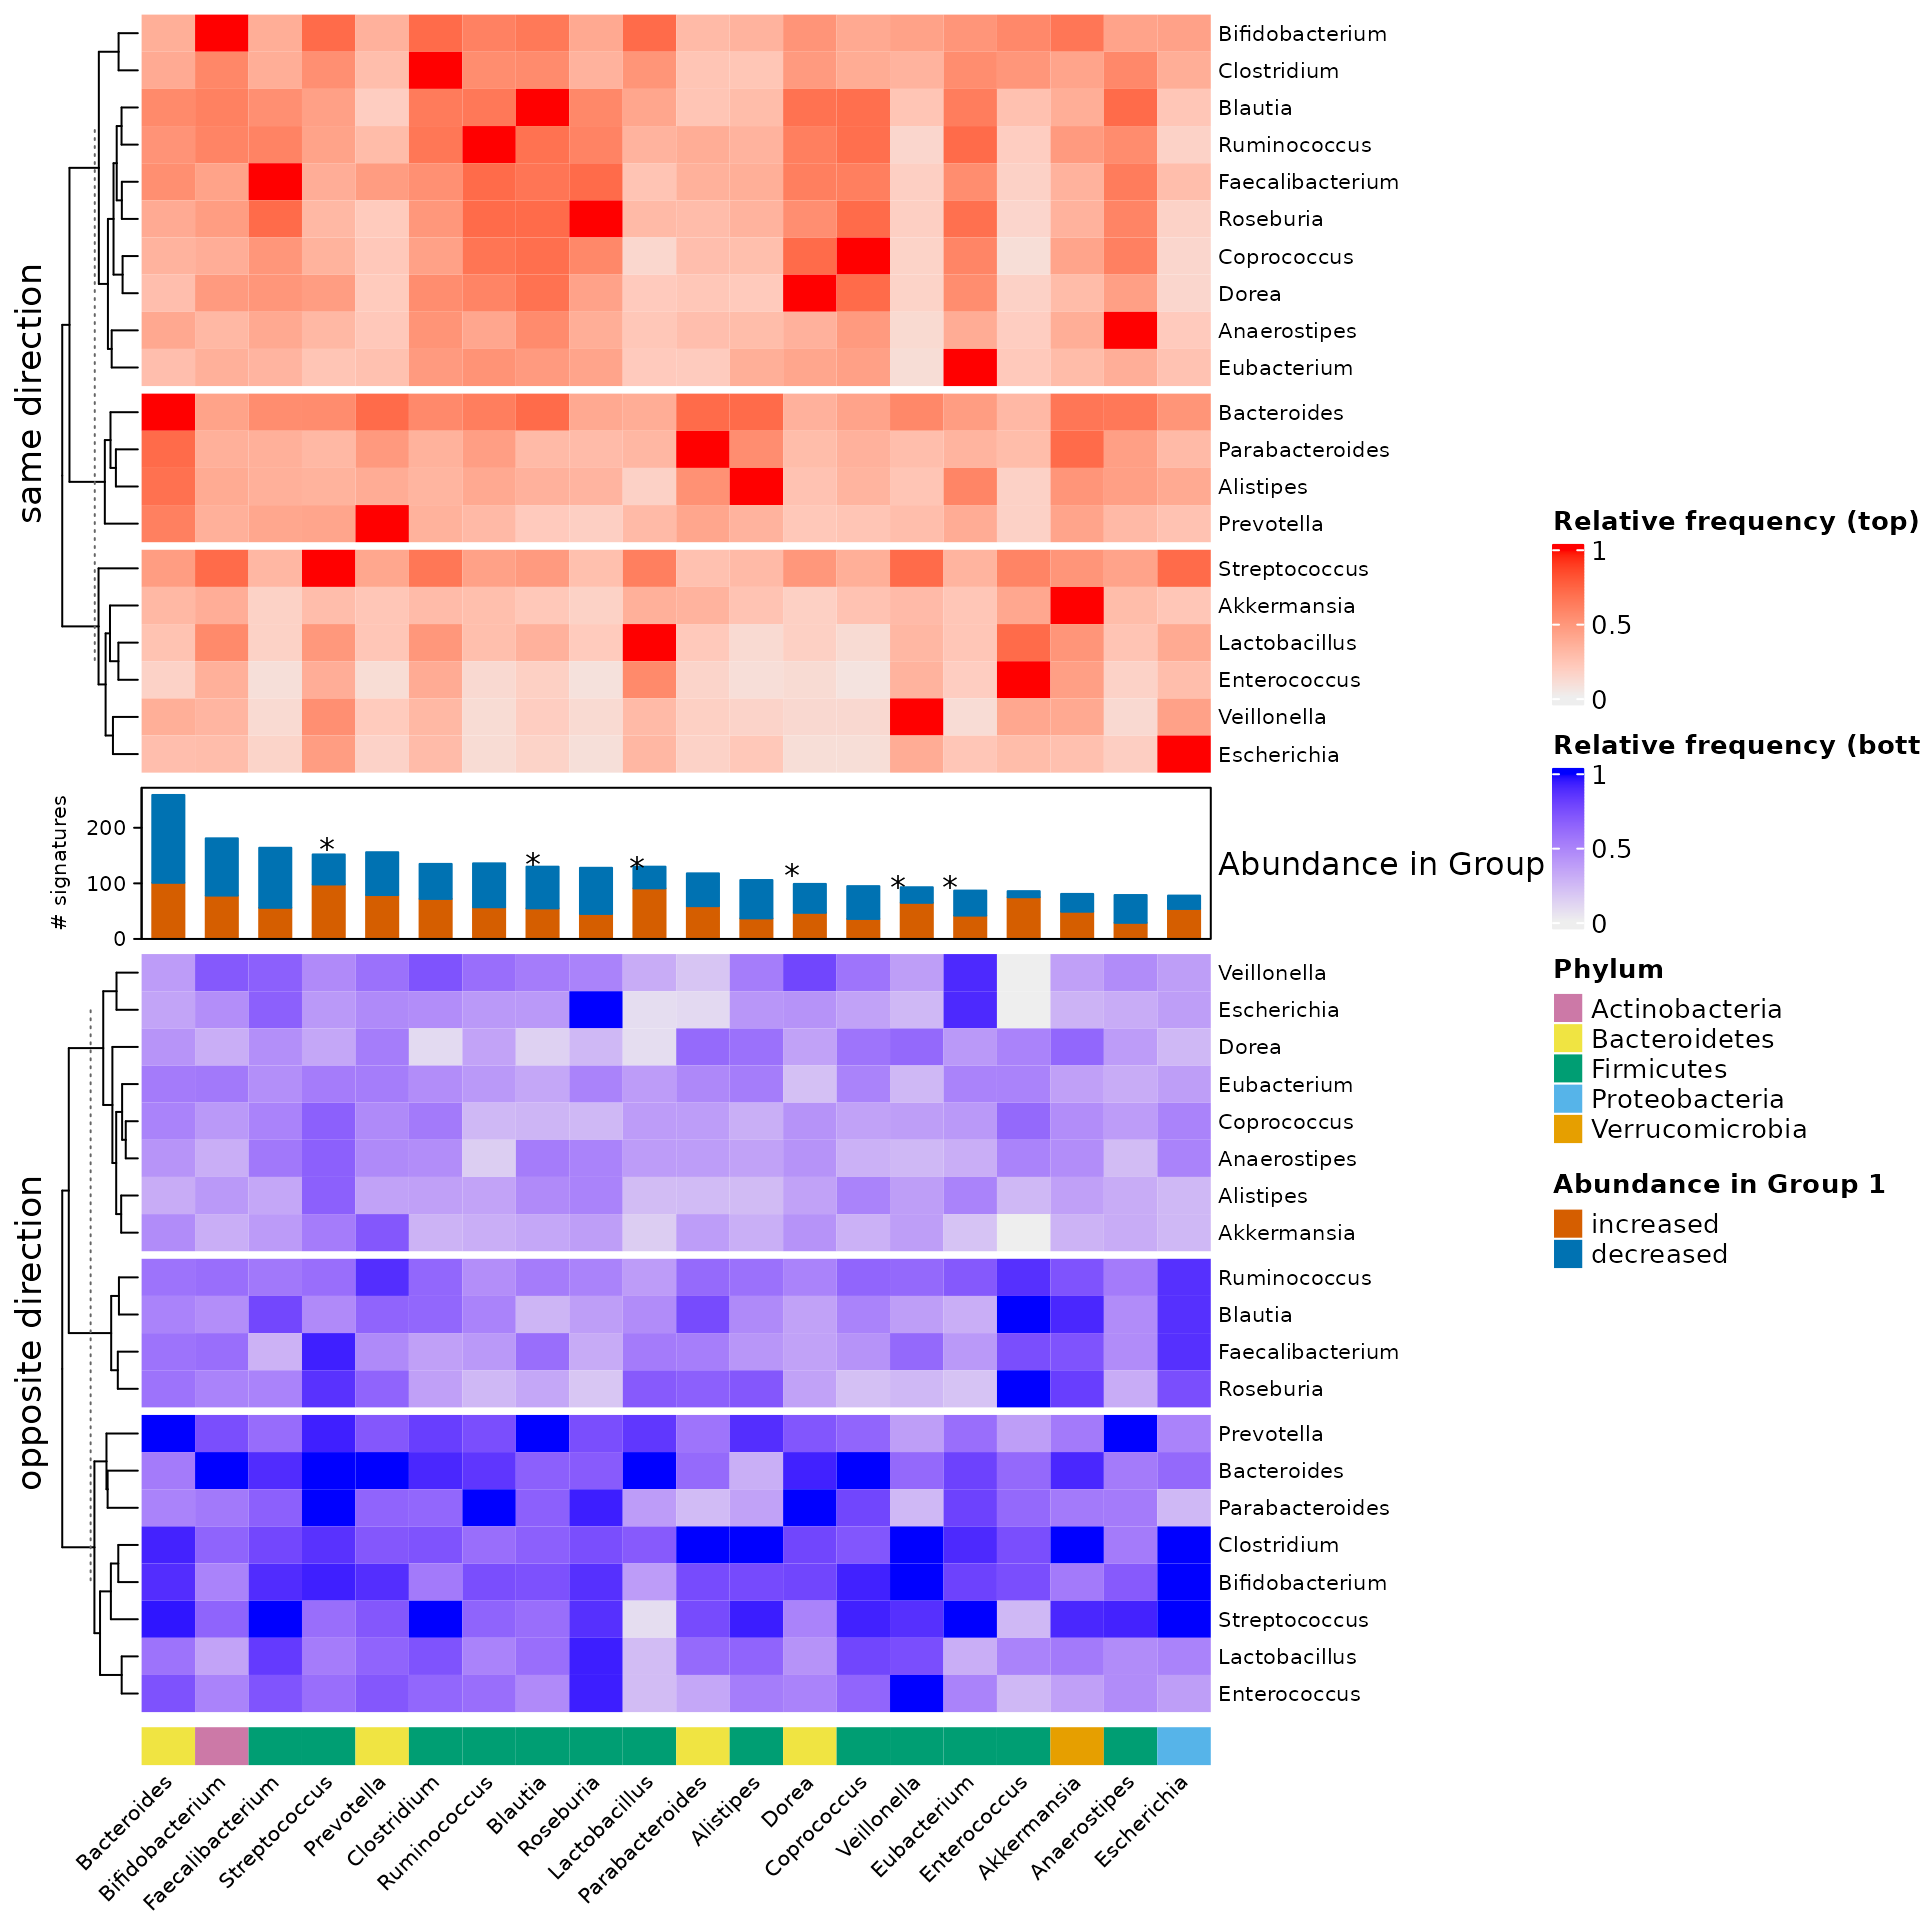
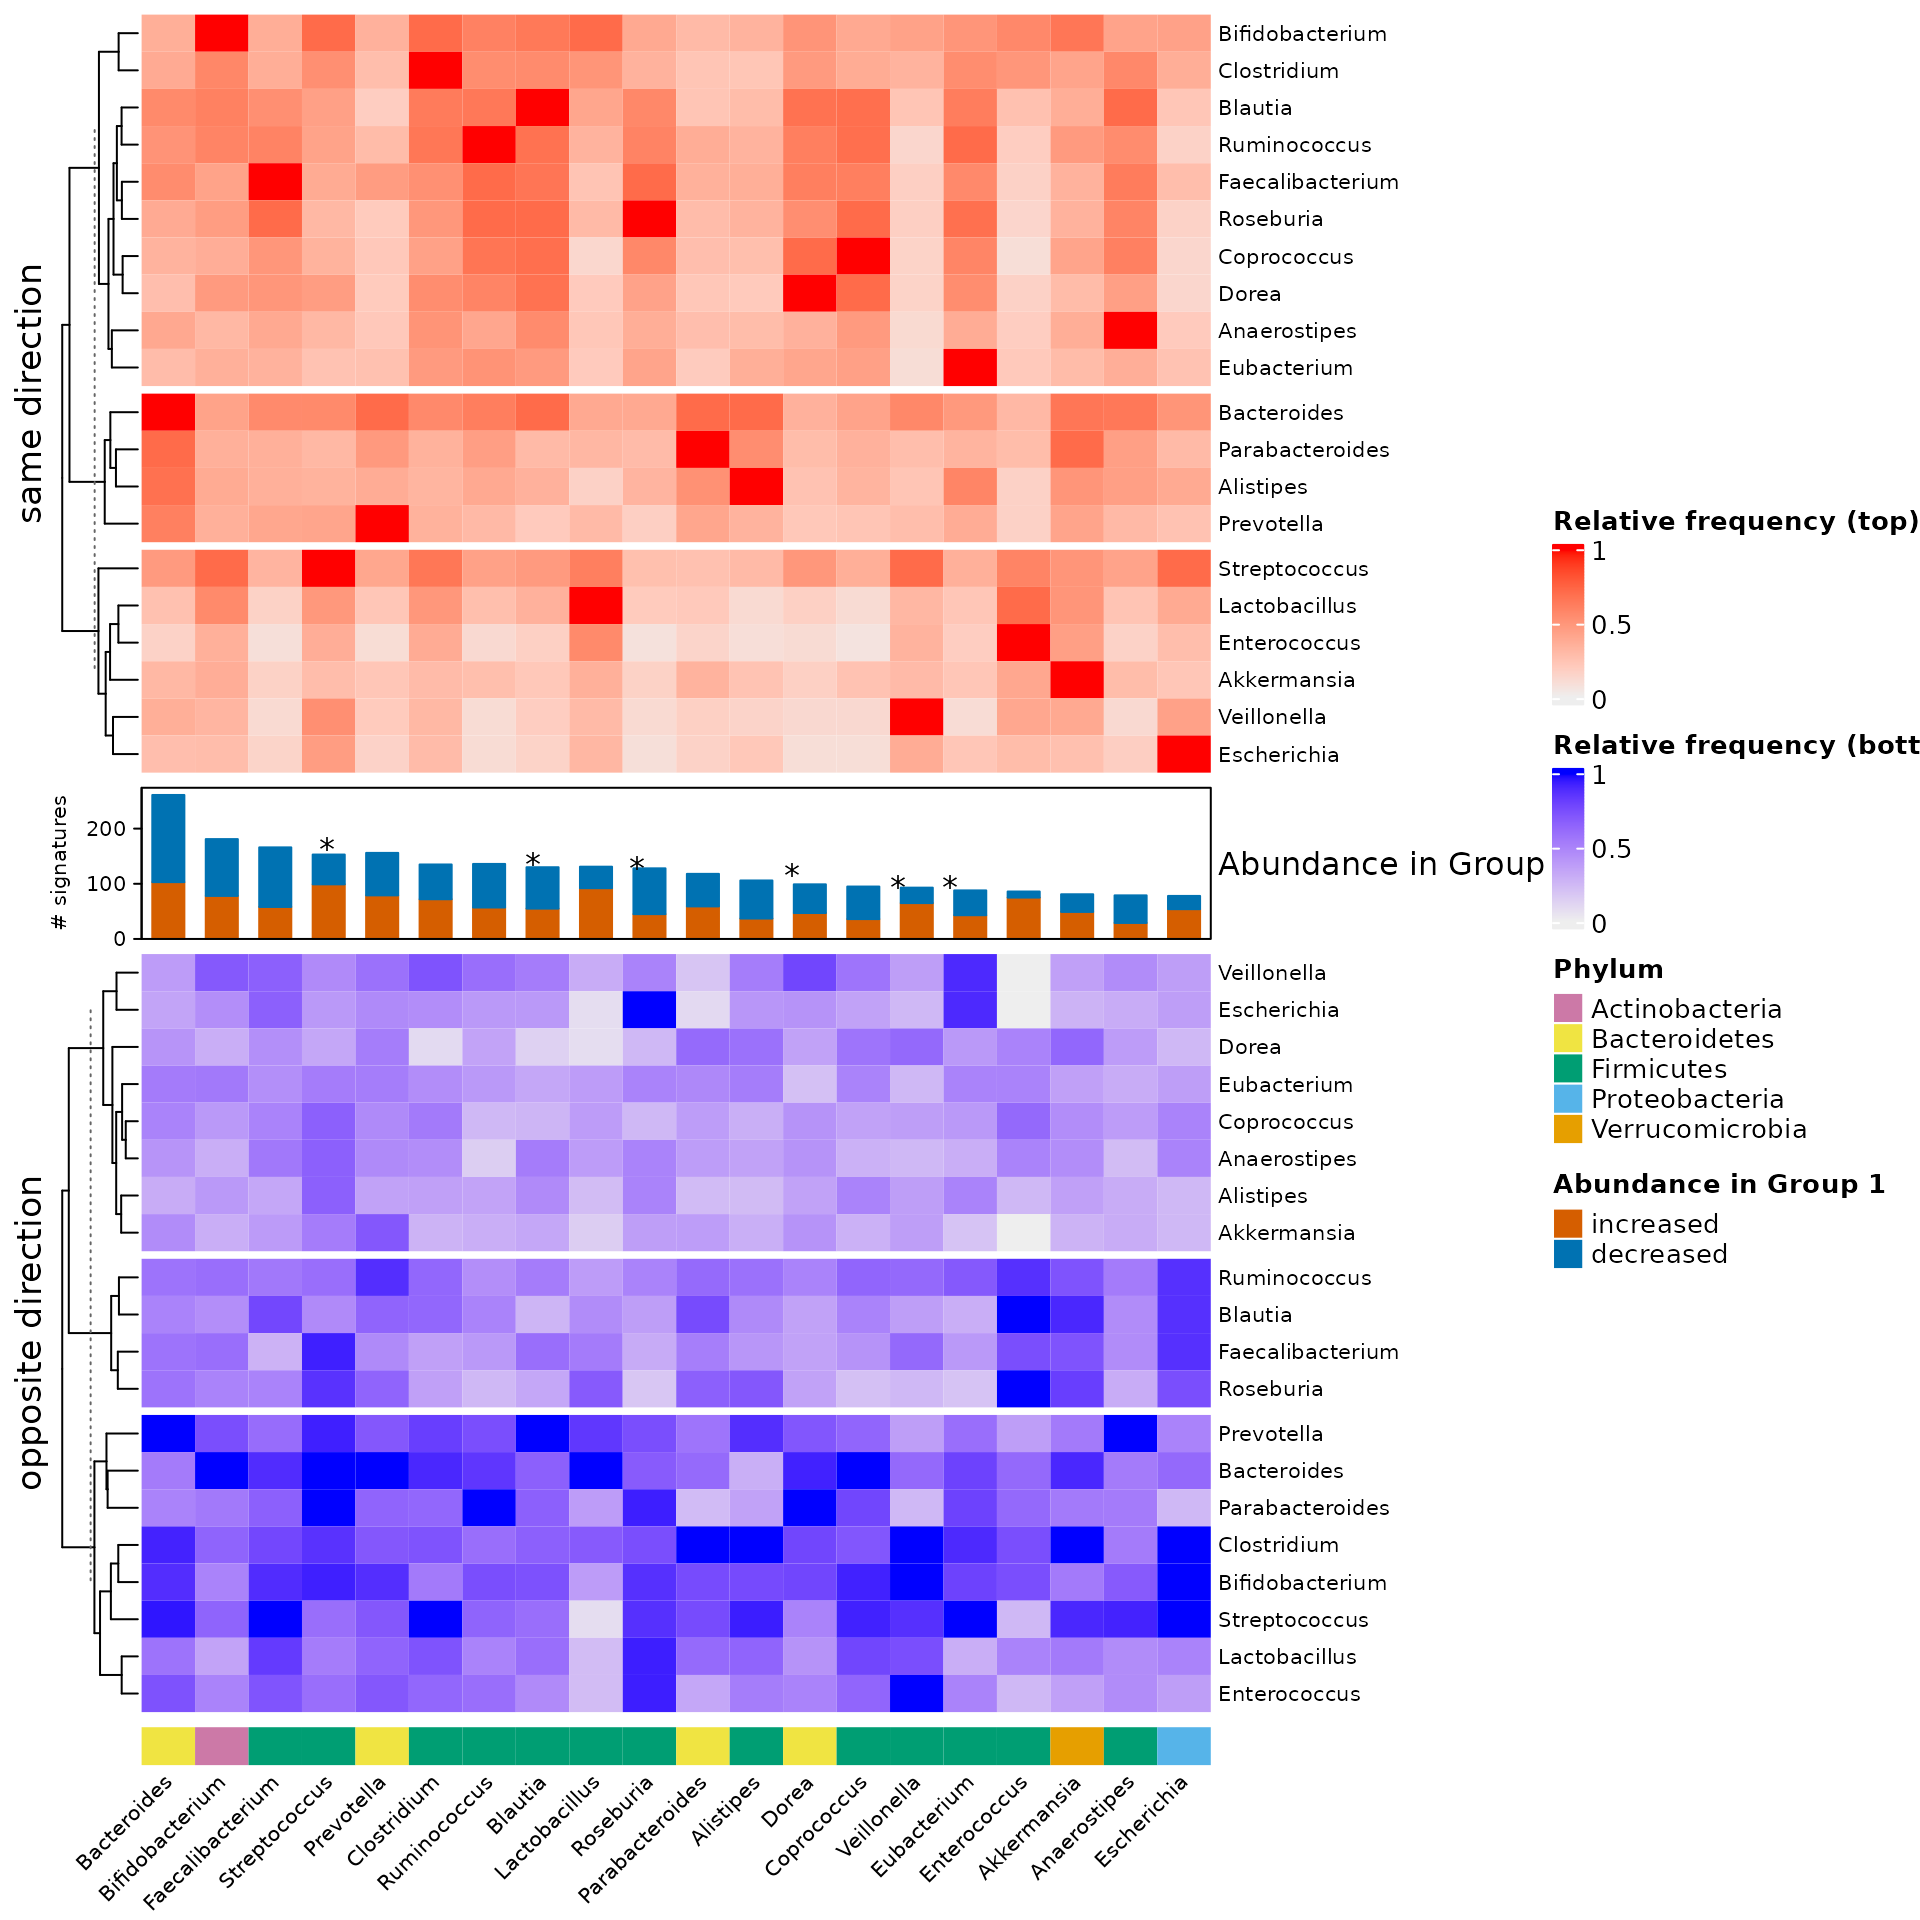
Deploying to gh-pages from @ waldronlab/BugSigDBStats@20c85d77b36f83bcaac91127be3e2c4930af8f28 🚀

diff --git a/articles/BugSigDBStats.html b/articles/BugSigDBStats.html
@@ -65,7 +65,7 @@
     <div class="page-header toc-ignore">
       <h1 data-toc-skip></h1>
             
-            <h4 data-toc-skip class="date">December 18, 2022</h4>
+            <h4 data-toc-skip class="date">December 20, 2022</h4>
       
       <small class="dont-index">Source: <a href="https://github.com/waldronlab/BugSigDBStats/blob/HEAD/vignettes/BugSigDBStats.Rmd" class="external-link"><code>vignettes/BugSigDBStats.Rmd</code></a></small>
       <div class="hidden name"><code>BugSigDBStats.Rmd</code></div>
@@ -458,7 +458,7 @@ column:</p>
 <span class="co">## $`Body site`</span>
 <span class="co">## </span>
 <span class="co">##          Feces         Saliva         Vagina Uterine cervix       Meconium </span>
-<span class="co">##            866             51             47             40             29 </span>
+<span class="co">##            869             51             47             40             29 </span>
 <span class="co">##   Skin of body          Mouth      Intestine    Nasopharynx        Stomach </span>
 <span class="co">##             29             28             27             26             22 </span>
 <span class="co">## </span>
@@ -519,30 +519,30 @@ column:</p>
 <span class="co">## $`Body site`</span>
 <span class="co">## </span>
 <span class="co">##          Feces         Saliva         Vagina Uterine cervix       Meconium </span>
-<span class="co">##         0.5880         0.0346         0.0319         0.0271         0.0197 </span>
+<span class="co">##         0.5880         0.0345         0.0318         0.0271         0.0196 </span>
 <span class="co">##   Skin of body          Mouth      Intestine    Nasopharynx        Stomach </span>
-<span class="co">##         0.0197         0.0190         0.0183         0.0176         0.0149 </span>
+<span class="co">##         0.0196         0.0190         0.0183         0.0176         0.0149 </span>
 <span class="co">## </span>
 <span class="co">## $Condition</span>
 <span class="co">## </span>
 <span class="co">##                                      obesity </span>
-<span class="co">##                                       0.0712 </span>
+<span class="co">##                                       0.0711 </span>
 <span class="co">##                                     COVID-19 </span>
-<span class="co">##                                       0.0610 </span>
+<span class="co">##                                       0.0608 </span>
 <span class="co">##                          antimicrobial agent </span>
-<span class="co">##                                       0.0534 </span>
+<span class="co">##                                       0.0533 </span>
 <span class="co">##                            colorectal cancer </span>
-<span class="co">##                                       0.0527 </span>
+<span class="co">##                                       0.0526 </span>
 <span class="co">##                                         diet </span>
-<span class="co">##                                       0.0384 </span>
+<span class="co">##                                       0.0383 </span>
 <span class="co">##              human papilloma virus infection </span>
-<span class="co">##                                       0.0288 </span>
+<span class="co">##                                       0.0287 </span>
 <span class="co">## cervical glandular intraepithelial neoplasia </span>
 <span class="co">##                                       0.0260 </span>
 <span class="co">##                               gastric cancer </span>
-<span class="co">##                                       0.0240 </span>
+<span class="co">##                                       0.0239 </span>
 <span class="co">##                             cesarean section </span>
-<span class="co">##                                       0.0233 </span>
+<span class="co">##                                       0.0232 </span>
 <span class="co">##                                endometriosis </span>
 <span class="co">##                                       0.0226 </span>
 <span class="co">## </span>
@@ -997,13 +997,13 @@ abundant:</p>
 <span class="va">top20</span></code></pre></div>
 <pre><code><span class="co">## </span>
 <span class="co">##      Bacteroides  Bifidobacterium Faecalibacterium    Streptococcus </span>
-<span class="co">##              268              191              169              161 </span>
+<span class="co">##              270              191              171              162 </span>
 <span class="co">##       Prevotella      Clostridium     Ruminococcus          Blautia </span>
 <span class="co">##              159              140              140              136 </span>
-<span class="co">##        Roseburia    Lactobacillus  Parabacteroides        Alistipes </span>
-<span class="co">##              133              132              123              112 </span>
+<span class="co">##    Lactobacillus        Roseburia  Parabacteroides        Alistipes </span>
+<span class="co">##              133              133              123              112 </span>
 <span class="co">##            Dorea      Coprococcus      Veillonella      Eubacterium </span>
-<span class="co">##              105              101               97               93 </span>
+<span class="co">##              105              101               97               94 </span>
 <span class="co">##     Enterococcus      Akkermansia     Anaerostipes      Escherichia </span>
 <span class="co">##               90               87               85               84</span></code></pre>
 <p>Subset heatmaps to the top 20 genera most frequently reported as
@@ -1028,13 +1028,13 @@ decreased):</p>
 <span class="va">top20.up</span></code></pre></div>
 <pre><code><span class="co">## </span>
 <span class="co">##      Bacteroides  Bifidobacterium Faecalibacterium    Streptococcus </span>
-<span class="co">##              101               78               56               98 </span>
+<span class="co">##              103               78               58               99 </span>
 <span class="co">##       Prevotella      Clostridium     Ruminococcus          Blautia </span>
 <span class="co">##               79               72               57               55 </span>
-<span class="co">##        Roseburia    Lactobacillus  Parabacteroides        Alistipes </span>
-<span class="co">##               45               91               59               37 </span>
+<span class="co">##    Lactobacillus        Roseburia  Parabacteroides        Alistipes </span>
+<span class="co">##               92               45               59               37 </span>
 <span class="co">##            Dorea      Coprococcus      Veillonella      Eubacterium </span>
-<span class="co">##               47               36               65               42 </span>
+<span class="co">##               47               36               65               43 </span>
 <span class="co">##     Enterococcus      Akkermansia     Anaerostipes      Escherichia </span>
 <span class="co">##               75               49               29               54</span></code></pre>
 <div class="sourceCode" id="cb84"><pre class="downlit sourceCode r">
@@ -1049,8 +1049,8 @@ decreased):</p>
 <span class="co">##              158              103              108               54 </span>
 <span class="co">##       Prevotella      Clostridium     Ruminococcus          Blautia </span>
 <span class="co">##               77               63               79               75 </span>
-<span class="co">##        Roseburia    Lactobacillus  Parabacteroides        Alistipes </span>
-<span class="co">##               83               39               59               69 </span>
+<span class="co">##    Lactobacillus        Roseburia  Parabacteroides        Alistipes </span>
+<span class="co">##               39               83               59               69 </span>
 <span class="co">##            Dorea      Coprococcus      Veillonella      Eubacterium </span>
 <span class="co">##               52               59               28               45 </span>
 <span class="co">##     Enterococcus      Akkermansia     Anaerostipes      Escherichia </span>

diff --git a/reference/syncWithNCBI.html b/reference/syncWithNCBI.html
@@ -76,10 +76,10 @@ NCBI Taxonomy. Typically obtained via <code><a href="getNcbiTaxonomyObo.html">ge
     <h2>Examples</h2>
     <div class="sourceCode"><pre class="sourceCode r"><code><span class="r-in"> <span class="kw"><a href="https://rdrr.io/r/base/library.html" class="external-link">library</a></span><span class="op">(</span><span class="va"><a href="https://github.com/waldronlab/bugsigdbr" class="external-link">bugsigdbr</a></span><span class="op">)</span></span>
 <span class="r-in"> <span class="va">df</span> <span class="op">&lt;-</span> <span class="fu"><a href="https://rdrr.io/pkg/bugsigdbr/man/importBugSigDB.html" class="external-link">importBugSigDB</a></span><span class="op">(</span><span class="op">)</span></span>
-<span class="r-msg co"><span class="r-pr">#&gt;</span> Using cached version from 2022-12-18 05:09:50</span>
+<span class="r-msg co"><span class="r-pr">#&gt;</span> Using cached version from 2022-12-20 05:09:15</span>
 <span class="r-in"> <span class="va">sigs</span> <span class="op">&lt;-</span> <span class="fu"><a href="https://rdrr.io/pkg/bugsigdbr/man/getSignatures.html" class="external-link">getSignatures</a></span><span class="op">(</span><span class="va">df</span><span class="op">)</span></span>
 <span class="r-in"> <span class="va">onto</span> <span class="op">&lt;-</span> <span class="fu"><a href="getNcbiTaxonomyObo.html">getNcbiTaxonomyObo</a></span><span class="op">(</span><span class="op">)</span></span>
-<span class="r-msg co"><span class="r-pr">#&gt;</span> Using cached version from 2022-12-18 05:10:44</span>
+<span class="r-msg co"><span class="r-pr">#&gt;</span> Using cached version from 2022-12-20 05:10:37</span>
 <span class="r-msg co"><span class="r-pr">#&gt;</span> Retrieveing NCBI taxonomy ontology from cache.</span>
 <span class="r-in"> <span class="va">sigs</span> <span class="op">&lt;-</span> <span class="fu">syncWithNCBI</span><span class="op">(</span><span class="va">sigs</span>, <span class="va">onto</span><span class="op">)</span></span>
 <span class="r-in"> </span>

diff --git a/reference/testReplicability.html b/reference/testReplicability.html
@@ -112,10 +112,10 @@ change in the study group.</p>
     <div id="ref-examples">
     <h2>Examples</h2>
     <div class="sourceCode"><pre class="sourceCode r"><code><span class="r-in"> <span class="va">dat</span> <span class="op">&lt;-</span> <span class="fu">bugsigdbr</span><span class="fu">::</span><span class="fu"><a href="https://rdrr.io/pkg/bugsigdbr/man/importBugSigDB.html" class="external-link">importBugSigDB</a></span><span class="op">(</span>version <span class="op">=</span> <span class="st">"10.5281/zenodo.5904281"</span><span class="op">)</span></span>
-<span class="r-msg co"><span class="r-pr">#&gt;</span> Using cached version from 2022-12-18 05:11:22</span>
+<span class="r-msg co"><span class="r-pr">#&gt;</span> Using cached version from 2022-12-20 05:11:14</span>
 <span class="r-in"> <span class="va">dat.feces</span> <span class="op">&lt;-</span> <span class="fu"><a href="https://rdrr.io/r/base/subset.html" class="external-link">subset</a></span><span class="op">(</span><span class="va">dat</span>, <span class="va">`Body site`</span> <span class="op">==</span> <span class="st">"feces"</span><span class="op">)</span></span>
 <span class="r-in"> <span class="va">res</span> <span class="op">&lt;-</span> <span class="fu">testReplicability</span><span class="op">(</span><span class="va">dat.feces</span><span class="op">)</span></span>
-<span class="r-msg co"><span class="r-pr">#&gt;</span> Using cached version from 2022-12-18 05:10:44</span>
+<span class="r-msg co"><span class="r-pr">#&gt;</span> Using cached version from 2022-12-20 05:10:37</span>
 <span class="r-msg co"><span class="r-pr">#&gt;</span> Retrieveing NCBI taxonomy ontology from cache.</span>
 </code></pre></div>
     </div>
